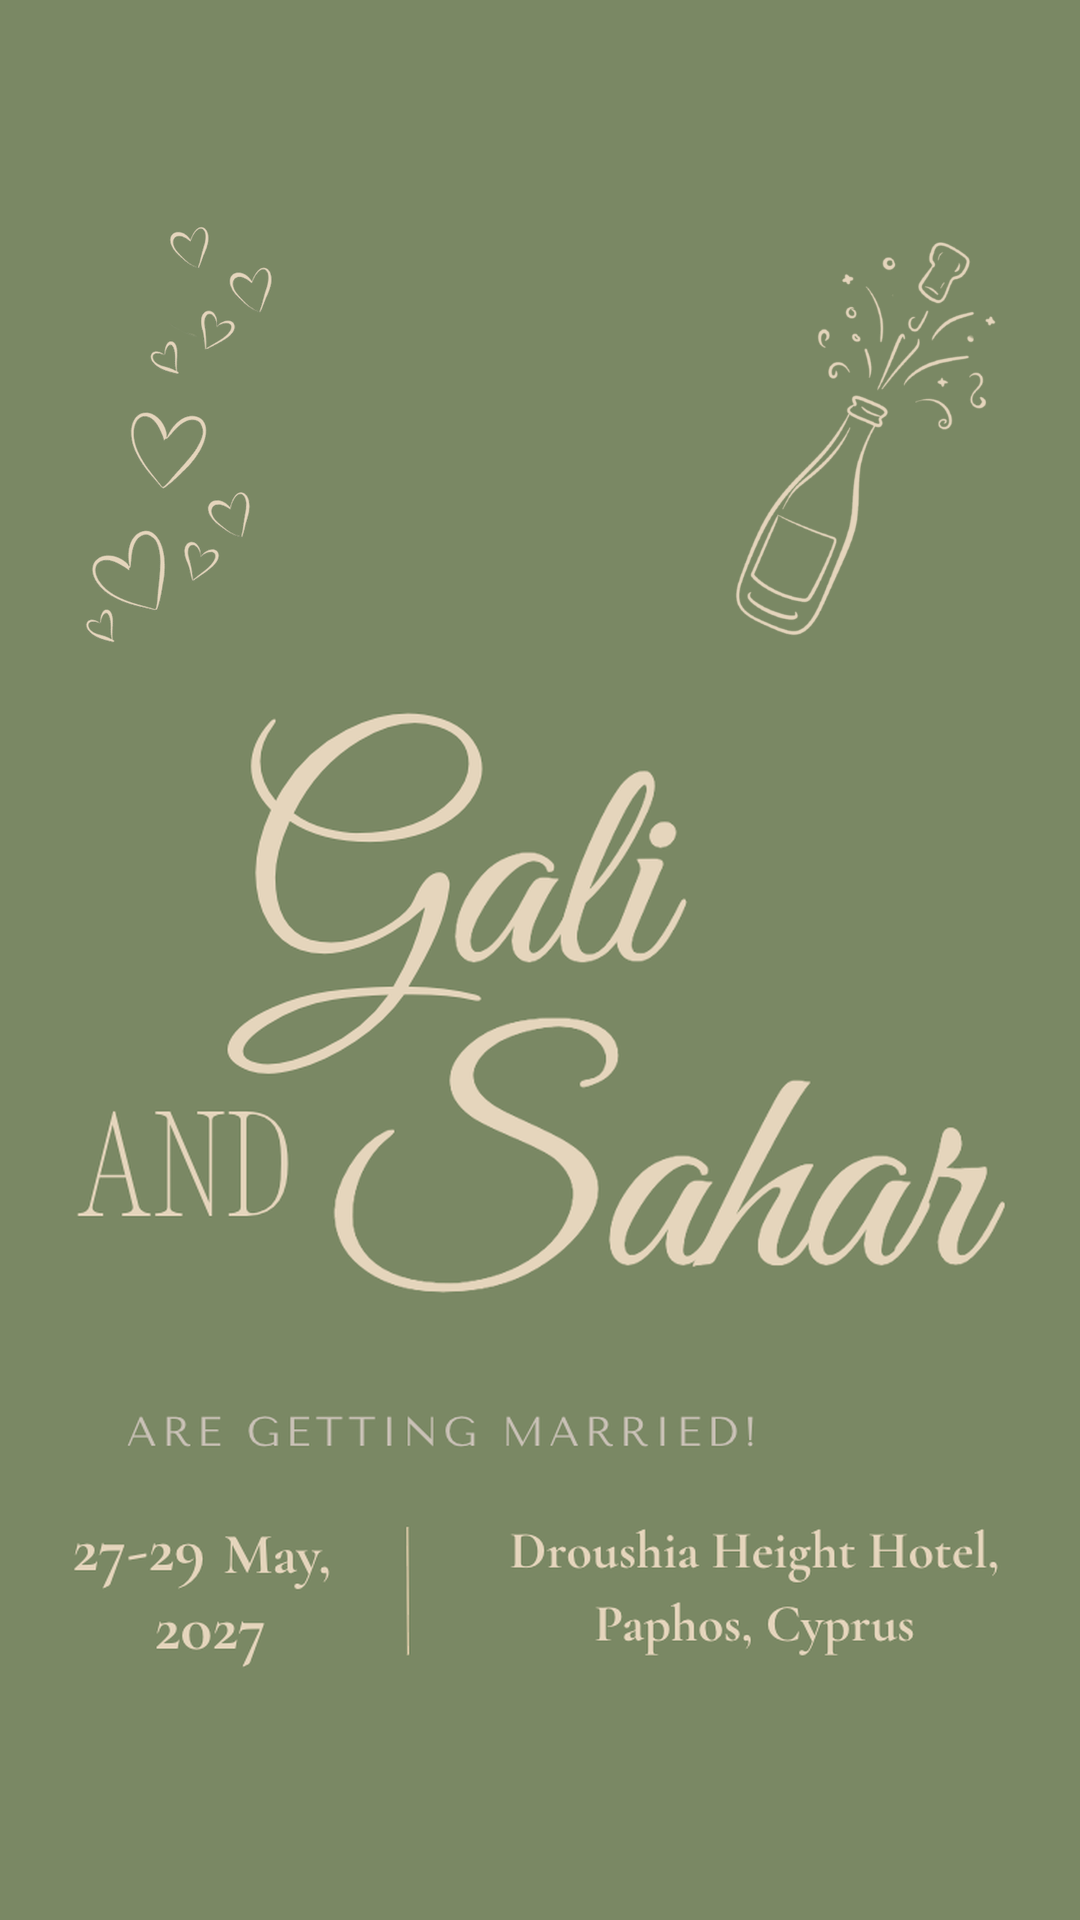
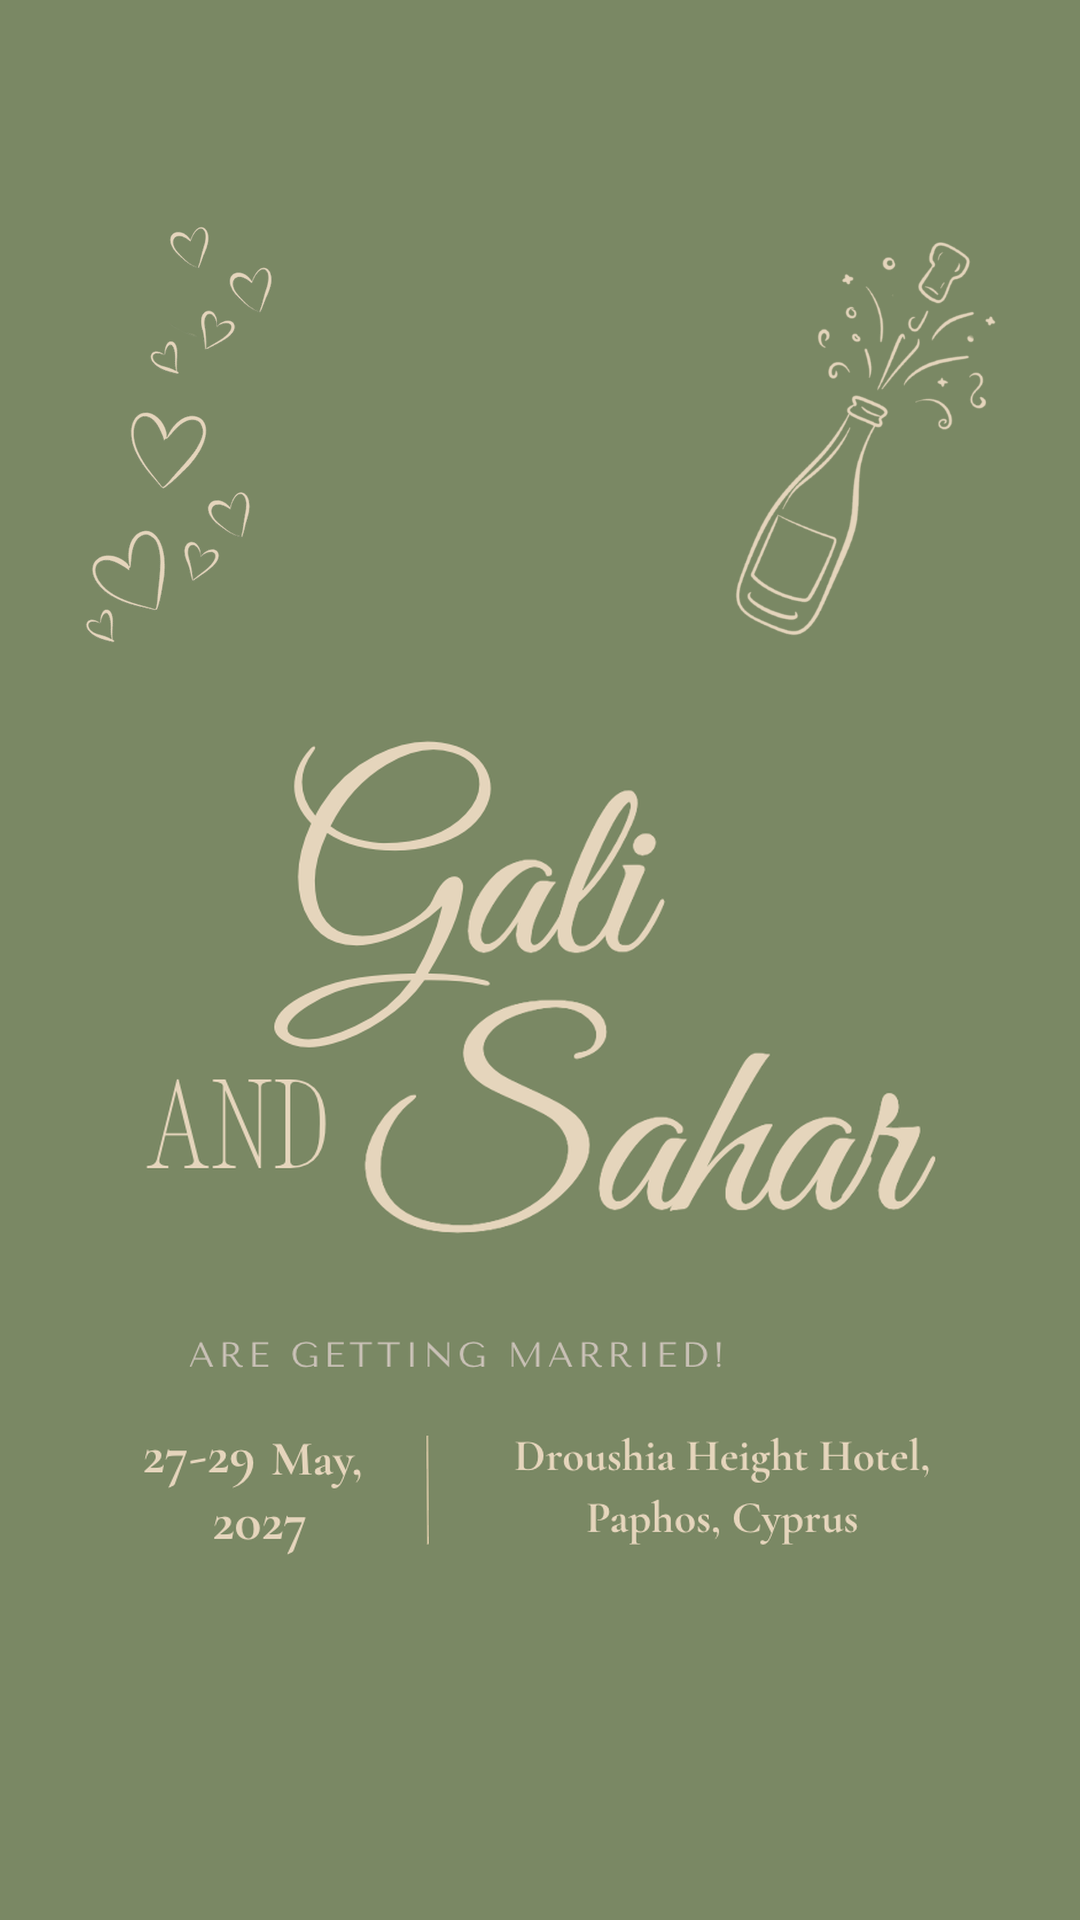
הקטנת כיתוב בעמוד הראשון

diff --git a/index.html b/index.html
@@ -436,8 +436,8 @@ footer p[style]{color:rgba(243,235,220,.5) !important;}
 
   <!-- HERO -->
   <section id="hero" class="hero-invite">
-    <img class="hero-invite-img hero-invite-desktop" src="invitation-hero-v2.png?v=2" alt="Gali & Sahar - 27-29 May 2027 · Droushia Heights Hotel, Cyprus">
-    <img class="hero-invite-img hero-invite-mobile" src="invitation-portrait-v2.png?v=2" alt="Gali & Sahar - 27-29 May 2027 · Droushia Heights Hotel, Cyprus">
+    <img class="hero-invite-img hero-invite-desktop" src="invitation-hero-v2.png?v=3" alt="Gali & Sahar - 27-29 May 2027 · Droushia Heights Hotel, Cyprus">
+    <img class="hero-invite-img hero-invite-mobile" src="invitation-portrait-v2.png?v=3" alt="Gali & Sahar - 27-29 May 2027 · Droushia Heights Hotel, Cyprus">
     <p class="hero-label" style="opacity:0;">מתחתנים!</p>
     <h1 class="hero-names" id="heroTitle" style="opacity:0;">סהר<span class="amp">&</span>גלי</h1>
     <div class="hero-divider" style="opacity:0;"></div>

diff --git a/sahar-gali-wedding.html b/sahar-gali-wedding.html
@@ -436,8 +436,8 @@ footer p[style]{color:rgba(243,235,220,.5) !important;}
 
   <!-- HERO -->
   <section id="hero" class="hero-invite">
-    <img class="hero-invite-img hero-invite-desktop" src="invitation-hero-v2.png?v=2" alt="Gali & Sahar - 27-29 May 2027 · Droushia Heights Hotel, Cyprus">
-    <img class="hero-invite-img hero-invite-mobile" src="invitation-portrait-v2.png?v=2" alt="Gali & Sahar - 27-29 May 2027 · Droushia Heights Hotel, Cyprus">
+    <img class="hero-invite-img hero-invite-desktop" src="invitation-hero-v2.png?v=3" alt="Gali & Sahar - 27-29 May 2027 · Droushia Heights Hotel, Cyprus">
+    <img class="hero-invite-img hero-invite-mobile" src="invitation-portrait-v2.png?v=3" alt="Gali & Sahar - 27-29 May 2027 · Droushia Heights Hotel, Cyprus">
     <p class="hero-label" style="opacity:0;">מתחתנים!</p>
     <h1 class="hero-names" id="heroTitle" style="opacity:0;">סהר<span class="amp">&</span>גלי</h1>
     <div class="hero-divider" style="opacity:0;"></div>
